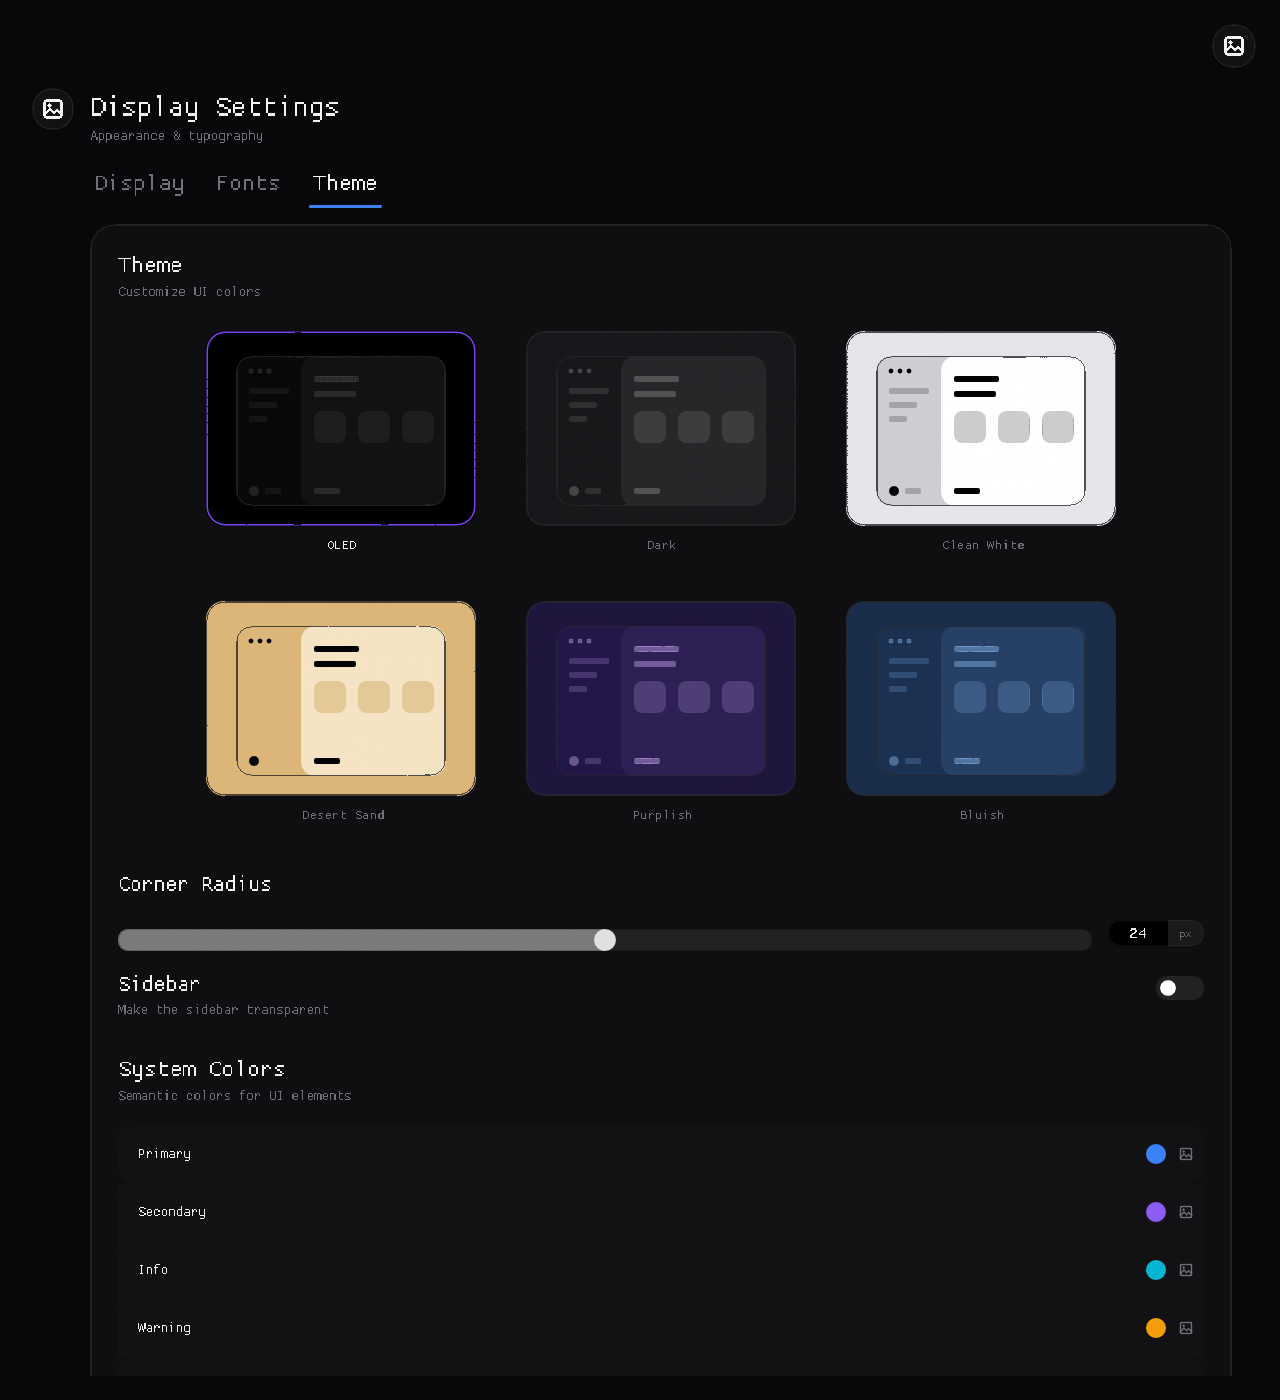
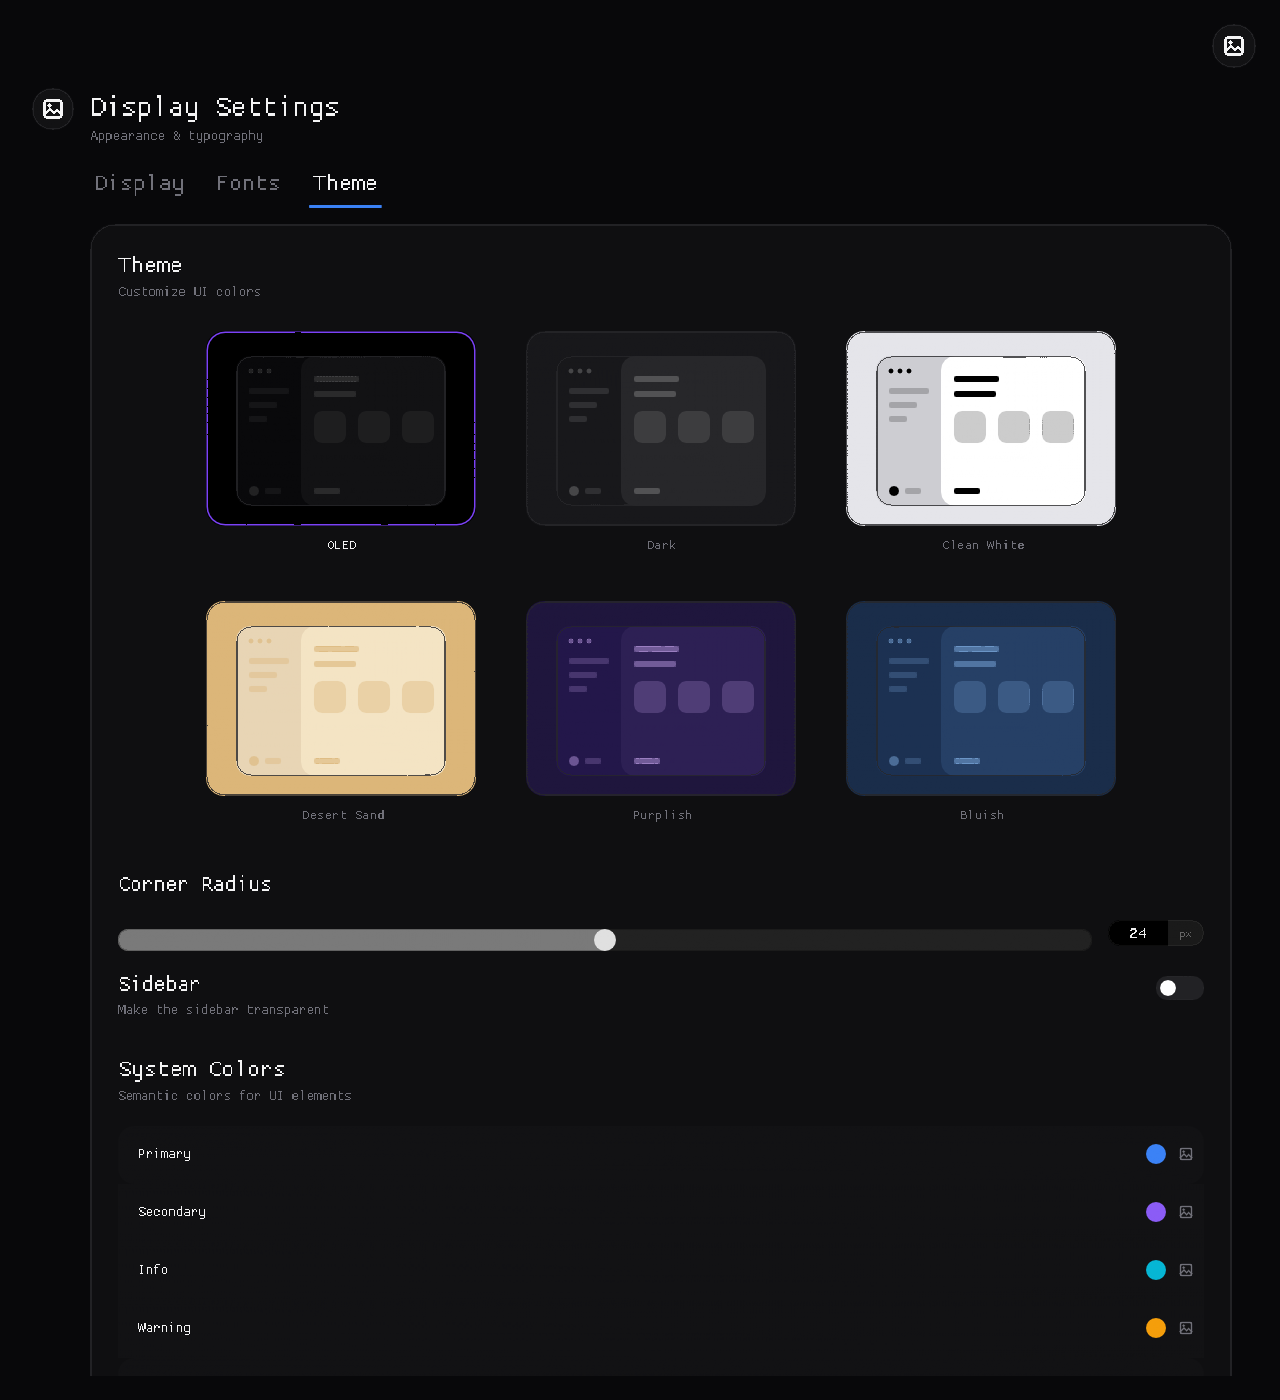
Correct light theme preview bar colours

Changed region(s): [[0.1875, 0.43, 0.2812, 0.5529]]

diff --git a/Engine/SlateUI/Interface/ThemeSpecification/Source/ThemeSpecification.cpp b/Engine/SlateUI/Interface/ThemeSpecification/Source/ThemeSpecification.cpp
@@ -14,23 +14,29 @@ namespace
 
 constexpr ThemeDeclaration Themes[] = {
     {"OLED", Covering(0x000000u), Partial(0x09090Bu, .95), Covering(0xF4F4F5u), Covering(0x71717Au),
-     Partial(0x27272Au, .80), Covering(0x121214u), Covering(0x000000u), Covering(0x121214u), Covering(0x09090Bu), Partial(0xFFFFFFu, .05),
-     Partial(0xFFFFFFu, .10)},
+     Partial(0x27272Au, .80), Covering(0x121214u), Covering(0x000000u), Covering(0x121214u),
+     Covering(0x09090Bu), Covering(0x151517u), Covering(0x222223u),
+     Covering(0x1E1E20u), Covering(0x2A2A2Cu)},
     {"Dark", Covering(0x0A0A0Au), Partial(0x18181Bu, .95), Covering(0xF4F4F5u), Covering(0xA1A1AAu),
-     Covering(0x27272Au), Covering(0x1F1F22u), Covering(0x18181Bu), Covering(0x27272Au), Covering(0x18181Bu), Partial(0xFFFFFFu, .10),
-     Partial(0xFFFFFFu, .20)},
+     Covering(0x27272Au), Covering(0x1F1F22u), Covering(0x18181Bu), Covering(0x27272Au),
+     Covering(0x18181Bu), Covering(0x2F2F32u), Covering(0x464649u),
+     Covering(0x3D3D3Fu), Covering(0x525255u)},
     {"Clean White", Covering(0xF4F4F5u), Partial(0xFFFFFFu, .95), Covering(0x18181Bu), Covering(0x71717Au),
-     Covering(0xE4E4E7u), Covering(0xFAFAFAu), Covering(0xE5E5EAu), Covering(0xFFFFFFu), Partial(0x000000u, .10),
-     Partial(0x000000u, .20)},
+     Covering(0xE4E4E7u), Covering(0xFAFAFAu), Covering(0xE5E5EAu), Covering(0xFFFFFFu),
+     Covering(0xE5E5EAu), Covering(0xCECED3u), Covering(0xB7B7BBu),
+     Covering(0xE6E6E6u), Covering(0xCCCCCCu)},
     {"Desert Sand", Covering(0xE8D5B5u), Partial(0xF2E5CCu, .95), Covering(0x4A3B2Cu), Covering(0x8A7356u),
-     Covering(0xCFAE7Eu), Covering(0xFAEED9u), Covering(0xDCB679u), Covering(0xF4E4C4u), Partial(0xDCB679u, .40),
-     Partial(0xDCB679u, .60)},
+     Covering(0xCFAE7Eu), Covering(0xFAEED9u), Covering(0xDCB679u), Covering(0xF4E4C4u),
+     Covering(0xE8D5B5u), Covering(0xE3C99Du), Covering(0xE1C291u),
+     Covering(0xEAD2A6u), Covering(0xE6C897u)},
     {"Purplish", Covering(0x0F0A1Cu), Partial(0x17102Bu, .95), Covering(0xF3E8FFu), Covering(0xC084FCu),
-     Partial(0x581C87u, .50), Covering(0x1D1438u), Covering(0x1F163Du), Covering(0x2D2054u), Covering(0x23174Au), Partial(0xD8B4FEu, .20),
-     Partial(0xD8B4FEu, .40)},
+     Partial(0x581C87u, .50), Covering(0x1D1438u), Covering(0x1F163Du), Covering(0x2D2054u),
+     Covering(0x23174Au), Covering(0x47366Eu), Covering(0x6B5692u),
+     Covering(0x4F3E76u), Covering(0x715B98u)},
     {"Bluish", Covering(0x09111Cu), Partial(0x0F1B2Du, .95), Covering(0xDBEAFEu), Covering(0x60A5FAu),
-     Partial(0x1E3A8Au, .50), Covering(0x15253Du), Covering(0x1A2D4Au), Covering(0x264066u), Covering(0x1C3152u), Partial(0x93C5FDu, .20),
-     Partial(0x93C5FDu, .40)}};
+     Partial(0x1E3A8Au, .50), Covering(0x15253Du), Covering(0x1A2D4Au), Covering(0x264066u),
+     Covering(0x1C3152u), Covering(0x344F74u), Covering(0x4C6C96u),
+     Covering(0x3C5B84u), Covering(0x5275A2u)}};
 
 constexpr AccentDeclaration Accents[] = {{"Blue", Covering(0x3B82F6u)},  {"Cyan", Covering(0x06B6D4u)},
                                          {"Teal", Covering(0x14B8A6u)},  {"Emerald", Covering(0x10B981u)},

diff --git a/Engine/SlateUI/Interface/ControlCentrePanel/Source/ControlCentrePanel.cpp b/Engine/SlateUI/Interface/ControlCentrePanel/Source/ControlCentrePanel.cpp
@@ -688,22 +688,22 @@ void ControlCentrePanel::ThemePage(const PlaneExtent &Extent, ControlCentreOrdin
         for (std::uint32_t Dot = 0u; Dot < 3u; ++Dot)
             Surface->Medallion(Tile.LeastAlong + (60.0f + 9.0f * static_cast<float>(Dot)) * AlongScale,
                                Tile.LeastAcross + 55.0f * AcrossScale, 2.5f * AlongScale,
-                               Preview.PreviewStrong);
+                               Preview.PreviewSidebarStrong);
 
         const float SidebarWidths[3] = {40.0f, 28.0f, 18.0f};
         for (std::uint32_t Line = 0u; Line < 3u; ++Line)
             Surface->Ground(Spanning(Tile.LeastAlong + 58.0f * AlongScale,
                                      Tile.LeastAcross + (72.0f + 14.0f * static_cast<float>(Line)) * AcrossScale,
                                      SidebarWidths[Line] * AlongScale, 6.0f * AcrossScale),
-                            Preview.PreviewQuiet, 3.0f * AlongScale, CornerAll);
+                            Preview.PreviewSidebarQuiet, 3.0f * AlongScale, CornerAll);
 
         Surface->Medallion(Tile.LeastAlong + 63.0f * AlongScale,
                            Tile.LeastAcross + 175.0f * AcrossScale, 5.0f * AlongScale,
-                           Preview.PreviewStrong);
+                           Preview.PreviewSidebarStrong);
         Surface->Ground(Spanning(Tile.LeastAlong + 74.0f * AlongScale,
                                  Tile.LeastAcross + 172.0f * AcrossScale,
                                  16.0f * AlongScale, 6.0f * AcrossScale),
-                        Preview.PreviewQuiet, 3.0f * AlongScale, CornerAll);
+                        Preview.PreviewSidebarQuiet, 3.0f * AlongScale, CornerAll);
 
         Surface->Ground(Spanning(Tile.LeastAlong + 123.0f * AlongScale,
                                  Tile.LeastAcross + 60.0f * AcrossScale,

diff --git a/Engine/SlateUI/Interface/ThemeSpecification/Api/ThemeSpecification.h b/Engine/SlateUI/Interface/ThemeSpecification/Api/ThemeSpecification.h
@@ -49,6 +49,8 @@ struct ThemeDeclaration
     InkOrdinate PreviewGround = {};
     InkOrdinate PreviewWindow = {};
     InkOrdinate PreviewSidebar = {};
+    InkOrdinate PreviewSidebarQuiet = {};
+    InkOrdinate PreviewSidebarStrong = {};
     InkOrdinate PreviewQuiet = {};
     InkOrdinate PreviewStrong = {};
 };
